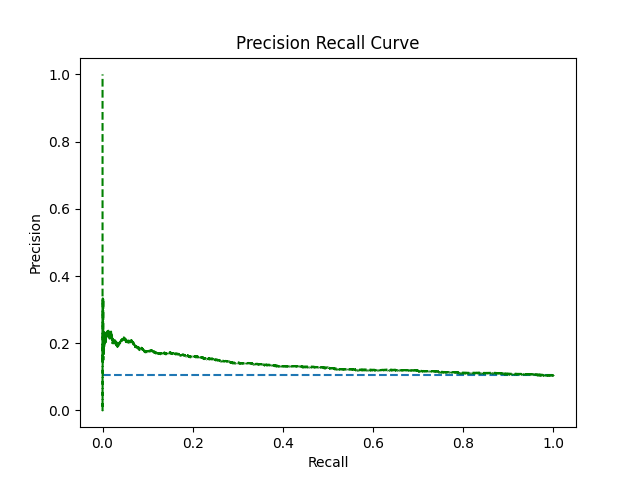
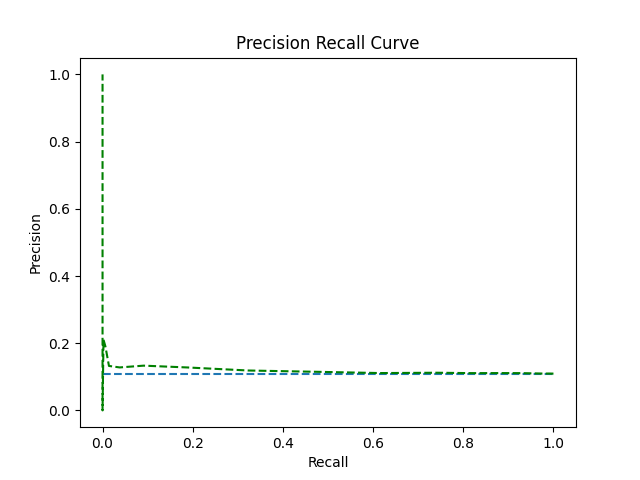
minor changes

diff --git a/Enhanced-ANN-GSGD/bayesian_parameter_tuning.py b/Enhanced-ANN-GSGD/bayesian_parameter_tuning.py
@@ -1,23 +1,18 @@
 #Reference - https://towardsdatascience.com/quick-tutorial-using-bayesian-optimization-to-tune-your-hyperparameters-in-pytorch-e9f74fc133c2
 
-from operator import ne
-from typing_extensions import Self
 import torch
 import numpy as np
-import torchvision
 from torch.utils.data import DataLoader, TensorDataset
 from ax.service.managed_loop import optimize
-from ax.utils.tutorials.cnn_utils import  train, evaluate
+from ax.utils.tutorials.cnn_utils import  train, evaluate # evaluate can also be used ANN
 
 from readData import readData
-import tkinter as tk
-from tkinter import filedialog
-import os
 import torch
 import torch.nn as nn
-from network import *
+
 
 torch.manual_seed(12345)
+
 #torch.cuda.set_device(0) #this is sometimes necessary for me
 dtype = torch.float
 device = torch.device('cuda' if torch.cuda.is_available() else 'cpu')
@@ -27,14 +22,14 @@ def train_evaluate(parameterization):
     NC, x, y, N, d, xts, yts = readData('C:/Users/avishek.ram/Documents/GitHub/Enhanced-ANN-GSGD/Enhanced-ANN-GSGD/data/diabetes_readmission_2class.data')
 
     #training loader
-    my_x = x[:1000,:]
-    my_y = y[:1000,:]
+    my_x = x#[:1000,:]
+    my_y = y#[:1000,:]
 
     tensor_x = torch.Tensor(my_x)
     tensor_y = torch.Tensor(my_y)
 
     my_dataset = TensorDataset(tensor_x, tensor_y)
-    training_loader = DataLoader(my_dataset)
+    training_loader = DataLoader(my_dataset, batch_size= parameterization.get("batch_size", 7), shuffle= True)
 
     #testing loader
     test_x = xts
@@ -44,14 +39,9 @@ def train_evaluate(parameterization):
     tensor_test_y = torch.Tensor(test_y)
 
     test_dataset = TensorDataset(tensor_test_x, tensor_test_y)
-    test_loader = DataLoader(test_dataset)
+    test_loader = DataLoader(dataset= test_dataset)
     # constructing a new training data loader allows us to tune the batch size
-    # train_loader = torch.utils.data.DataLoader(trainset,
-    #                             batch_size=parameterization.get("batchsize", 32),
-    #                             shuffle=True,
-    #                             num_workers=0,
-    #                             pin_memory=True)
-
+    
     train_loader  = training_loader # or use predefined
 
     # Get neural net
@@ -72,10 +62,13 @@ def train_evaluate(parameterization):
 def main_func():
     best_parameters, values, experiment, model = optimize(
         parameters=[
-            {"name": "lr", "type": "range", "bounds": [0.0002114354244, 0.00024], "log_scale": True},
+            {"name": "lr", "type": "range", "bounds": [0.0001, 0.0003], "log_scale": True},
             {"name": "lambda", "type": "range", "bounds":[1e-6, 0.9]},
+            {"name": "momentum", "type": "range", "bounds":[0.1, 0.99999]},
             {"name": "n_hidden", "type": "range", "bounds": [1, 50]},
-            #{"name": "stepsize", "type": "range", "bounds": [20, 40]},        
+            {"name": "batch_size", "type": "range", "bounds": [1, 100]},        
+            {"name": "dampening", "type": "range", "bounds": [0.0, 0.5]},        
+            {"name": "epochs", "type": "range", "bounds": [1, 1000]},        
         ],
     
         evaluation_function=train_evaluate,
@@ -98,14 +91,14 @@ def net_train(net, train_loader, parameters, dtype, device):
     net.to(dtype=dtype, device=device)
     criterion = nn.MSELoss()
 
-    optim_params = l_rate, lamda, betas, beta, epsilon
+    optim_params = l_rate, lamda, betas, beta, epsilon, parameters.get("momentum", 0.9), parameters.get("dampening", 0.001)
     optims = ['SGD', 'ADAM', 'ADADELTA', 'RMSPROP', 'ADAGRAD']
     
     optim_name = optims[0] #update this to perform hyperparametr tuning for different optimizers
     
     optimizer = get_optimizer(net, name=optim_name, cache= optim_params)
 
-    for _ in range(30):
+    for _ in range(parameters.get("epochs",10)):
         for inputs, labels in train_loader:
             # move data to proper dtype and device
             inputs = inputs.to(dtype=dtype, device=device)
@@ -131,6 +124,19 @@ def init_net(parameterization, d):
                       nn.Sigmoid())
 
     return model # return untrained model
+
+def get_optimizer(network, name, cache):
+    l_rate, lamda, betas, beta, epsilon, momentum, dampening = cache 
+    if(name == 'SGD'):
+        return torch.optim.SGD(network.parameters(), lr=l_rate, weight_decay= lamda, momentum= momentum, dampening=dampening)
+    elif(name == 'ADAM'):
+        return torch.optim.Adam(network.parameters(), lr=l_rate, betas= betas,  weight_decay= lamda)
+    elif(name == 'ADADELTA'):
+        return torch.optim.Adadelta(network.parameters(), lr=l_rate, eps= epsilon,rho= beta, weight_decay = lamda)
+    elif(name == 'RMSPROP'):
+        return torch.optim.RMSprop(network.parameters(), lr=l_rate, eps= epsilon, weight_decay = lamda)
+    elif(name == 'ADAGRAD'):
+        return torch.optim.Adagrad(network.parameters(), lr=l_rate, eps= epsilon, weight_decay = lamda)
 
 if __name__ == '__main__':
     main_func()

diff --git a/Enhanced-ANN-GSGD/main.py b/Enhanced-ANN-GSGD/main.py
@@ -26,9 +26,9 @@ def GSGD_ANN(filePath):
     seed(1)
     
     #model parameters
-    l_rate = 0.0002314354244#0.0002216960781458557#0.0002314354244 #0.000885 #0.061 #0.00025 #0.5
+    l_rate =  0.00010926827346753853 #0.0002814354245#0.0002216960781458557#0.0002314354244 #0.000885 #0.061 #0.00025 #0.5
     n_hidden = 36 #4
-    lamda =  1e-06#0.0001  #Lambda will be used for L2 regularizaion
+    lamda =  0.6980844659683136 #1e-06#0.0001  #Lambda will be used for L2 regularizaion
     betas = (0.9, 0.999)
     beta = 0.9
     epsilon = 1e-8
@@ -262,7 +262,7 @@ def back_propagation(x, y, xts, yts, l_rate, n_hidden, n_inputs, n_outputs, N, f
         tensor_y = torch.Tensor(y[shuffled_idxs])
 
         my_dataset = TensorDataset(tensor_x, tensor_y)
-        training_loader = DataLoader(my_dataset, batch_size=7, shuffle=True)
+        training_loader = DataLoader(my_dataset, batch_size=77, shuffle=True)
 
         for epoch in range(epochs):
             

diff --git a/Enhanced-ANN-GSGD/network.py b/Enhanced-ANN-GSGD/network.py
@@ -19,7 +19,8 @@ def train_network(network, x, y, l_rate, n_outputs, lamda, n_inputs, loss_functi
 def get_optimizer(network, name, cache):
     l_rate, lamda, betas, beta, epsilon = cache 
     if(name == 'SGD'):
-        return torch.optim.SGD(network.parameters(), lr=l_rate, weight_decay= lamda, momentum=0.9, dampening=0.3)
+        #return torch.optim.SGD(network.parameters(), lr=l_rate, weight_decay= lamda, momentum=0.4962894314251748, dampening=0.45076563535258174)
+        return torch.optim.SGD(network.parameters(), lr=l_rate, weight_decay= lamda, momentum=0.2827489336915966, dampening=0.04024708550423384)
     elif(name == 'ADAM'):
         return torch.optim.Adam(network.parameters(), lr=l_rate, betas= betas,  weight_decay= lamda)
     elif(name == 'ADADELTA'):
